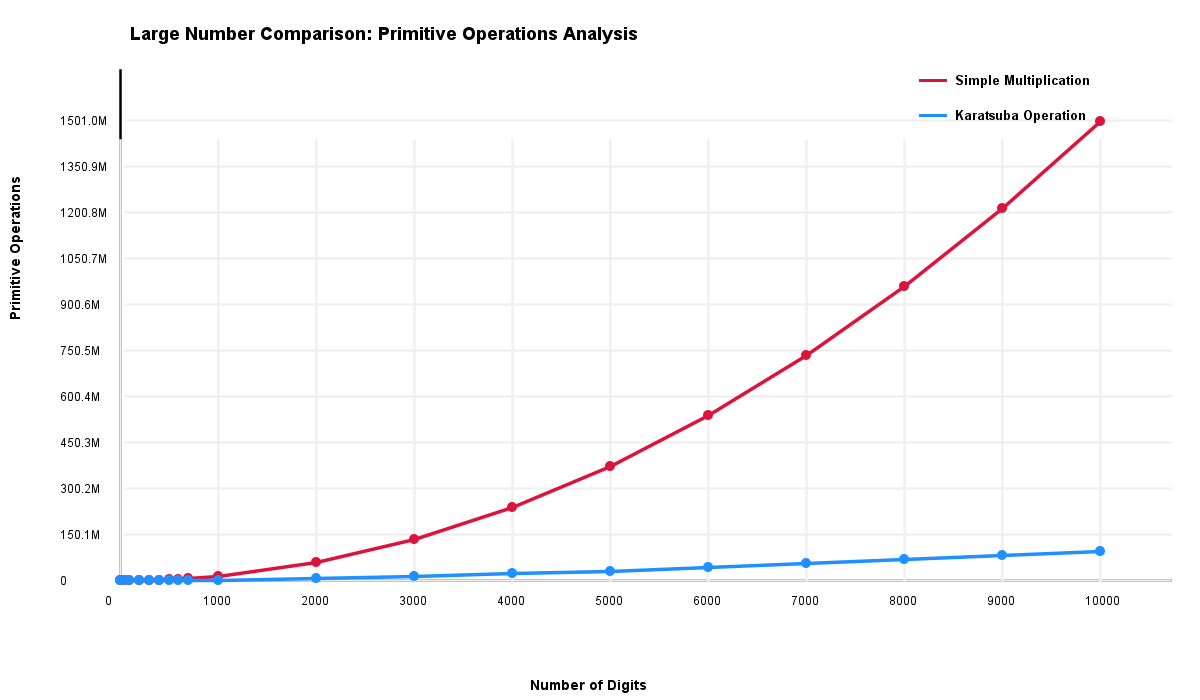
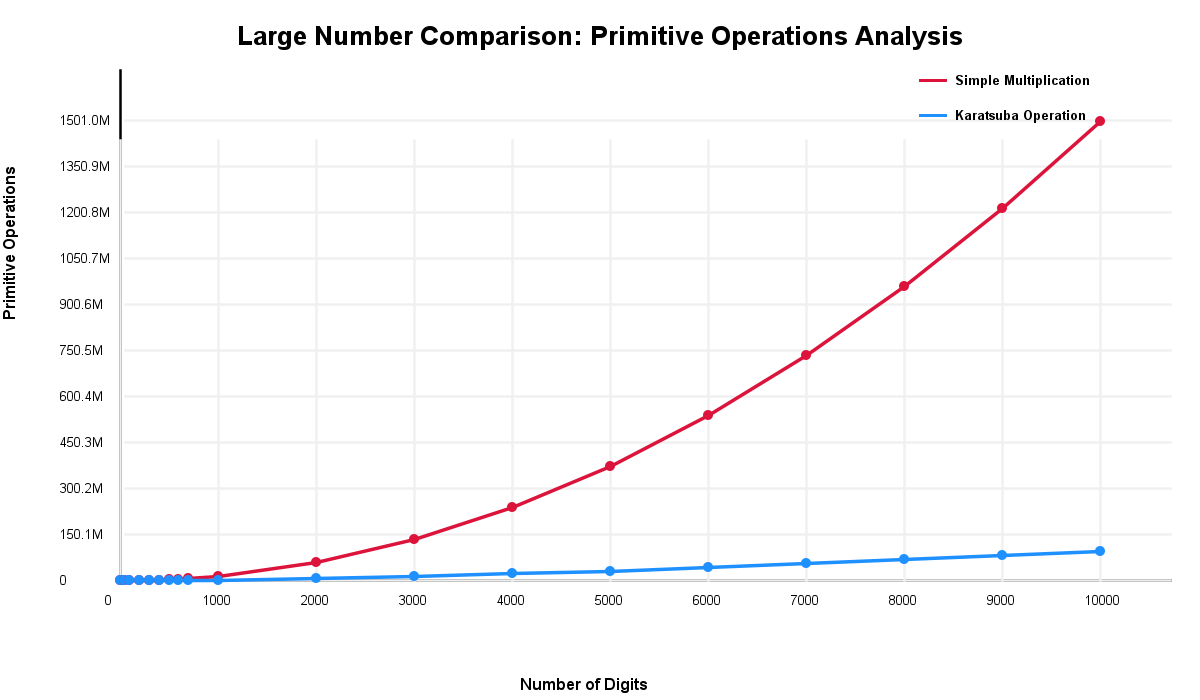
update graph design

diff --git a/src/karatsuba/Karatsuba.java b/src/karatsuba/Karatsuba.java
@@ -143,10 +143,14 @@ public class Karatsuba {
         for (long v : ops) if (v > maxVal) maxVal = v;
         maxVal = (maxVal / 1000000 + 1) * 1000000;
 
-        // Title
+        // Title - centered
         g.setColor(Color.BLACK);
-        g.setFont(new Font("Arial", Font.BOLD, 18));
-        g.drawString("Karatsuba Algorithm Analysis (2 to 10000 digits)", 200, 40);
+        g.setFont(new Font("Arial", Font.BOLD, 26));
+        String title = "Karatsuba Algorithm Analysis";
+        FontMetrics fm = g.getFontMetrics();
+        int titleWidth = fm.stringWidth(title);
+        int titleX = (WIDTH - titleWidth) / 2;
+        g.drawString(title, titleX, 45);
 
         // Draw axes
         g.setStroke(new BasicStroke(2.5f));
@@ -155,7 +159,7 @@ public class Karatsuba {
         g.drawLine(PADDING, HEIGHT - PADDING, PADDING, 70);
 
         // Draw grid and Y-axis labels
-        g.setFont(new Font("Arial", Font.PLAIN, 12));
+        g.setFont(new Font("Arial", Font.PLAIN, 13));
         int divisions = 10;
         for (int i = 0; i <= divisions; i++) {
             int y = (HEIGHT - PADDING) - (i * (HEIGHT - 2 * PADDING) / divisions);
@@ -179,12 +183,12 @@ public class Karatsuba {
         aff.rotate(-Math.PI / 2);
         Graphics2D g2d = (Graphics2D) g;
         g2d.setTransform(aff);
-        g.setFont(new Font("Arial", Font.BOLD, 14));
-        g.drawString("Primitive Operations", -HEIGHT / 2 + 30, 20);
+        g.setFont(new Font("Arial", Font.BOLD, 16));
+        g.drawString("Primitive Operations", -HEIGHT / 2 + 30, 15);
         g2d.setTransform(new AffineTransform());
 
         // X-axis labels (0, 1000, 2000... 10000)
-        g.setFont(new Font("Arial", Font.PLAIN, 12));
+        g.setFont(new Font("Arial", Font.PLAIN, 13));
         int maxDigits = 10000;
         for (int scale = 0; scale <= maxDigits; scale += 1000) {
             // Find position of this scale value (linear interpolation)
@@ -204,8 +208,8 @@ public class Karatsuba {
         }
 
         // X-axis label
-        g.setFont(new Font("Arial", Font.BOLD, 14));
-        g.drawString("Number of Digits", WIDTH / 2 - 70, HEIGHT - 10);
+        g.setFont(new Font("Arial", Font.BOLD, 16));
+        g.drawString("Number of Digits", WIDTH / 2 - 80, HEIGHT - 10);
 
         // Draw line
         g.setStroke(new BasicStroke(3.5f));
@@ -225,6 +229,19 @@ public class Karatsuba {
             g.setColor(new Color(30, 144, 255));
             g.fillOval(x - 5, y - 5, 10, 10);
         }
+
+        // Legend with colored line
+        g.setFont(new Font("Arial", Font.BOLD, 13));
+        int legendX = WIDTH - 280;
+        int legendY = 80;
+        int lineLength = 25;
+
+        // Blue line for Karatsuba
+        g.setStroke(new BasicStroke(3));
+        g.setColor(new Color(30, 144, 255));
+        g.drawLine(legendX, legendY, legendX + lineLength, legendY);
+        g.setColor(Color.BLACK);
+        g.drawString("Karatsuba Operation", legendX + 35, legendY + 5);
 
         g.dispose();
         ImageIO.write(img, "png", new File(filename));

diff --git a/src/simple/SimpleMultiplication.java b/src/simple/SimpleMultiplication.java
@@ -141,10 +141,14 @@ public class SimpleMultiplication {
         for (long v : ops) if (v > maxVal) maxVal = v;
         maxVal = (maxVal / 1000000 + 1) * 1000000;
 
-        // Title
+        // Title - centered
         g.setColor(Color.BLACK);
-        g.setFont(new Font("Arial", Font.BOLD, 18));
-        g.drawString("Simple Multiplication Algorithm Analysis (2 to 10000 digits)", 140, 40);
+        g.setFont(new Font("Arial", Font.BOLD, 26));
+        String title = "Simple Multiplication Algorithm Analysis";
+        FontMetrics fm = g.getFontMetrics();
+        int titleWidth = fm.stringWidth(title);
+        int titleX = (WIDTH - titleWidth) / 2;
+        g.drawString(title, titleX, 45);
 
         // Draw axes
         g.setStroke(new BasicStroke(2.5f));
@@ -153,7 +157,7 @@ public class SimpleMultiplication {
         g.drawLine(PADDING, HEIGHT - PADDING, PADDING, 70);
 
         // Draw grid and Y-axis labels
-        g.setFont(new Font("Arial", Font.PLAIN, 12));
+        g.setFont(new Font("Arial", Font.PLAIN, 13));
         int divisions = 10;
         for (int i = 0; i <= divisions; i++) {
             int y = (HEIGHT - PADDING) - (i * (HEIGHT - 2 * PADDING) / divisions);
@@ -177,12 +181,12 @@ public class SimpleMultiplication {
         aff.rotate(-Math.PI / 2);
         Graphics2D g2d = (Graphics2D) g;
         g2d.setTransform(aff);
-        g.setFont(new Font("Arial", Font.BOLD, 14));
-        g.drawString("Primitive Operations", -HEIGHT / 2 + 30, 20);
+        g.setFont(new Font("Arial", Font.BOLD, 16));
+        g.drawString("Primitive Operations", -HEIGHT / 2 + 30, 15);
         g2d.setTransform(new AffineTransform());
 
         // X-axis labels (0, 1000, 2000... 10000) - fixed scale from 0 to 10000
-        g.setFont(new Font("Arial", Font.PLAIN, 12));
+        g.setFont(new Font("Arial", Font.PLAIN, 13));
         for (int scale = 0; scale <= 10000; scale += 1000) {
             // Map scale value (0-10000) to pixel position
             double position = scale / 10000.0;
@@ -198,8 +202,8 @@ public class SimpleMultiplication {
         }
 
         // X-axis label
-        g.setFont(new Font("Arial", Font.BOLD, 14));
-        g.drawString("Number of Digits", WIDTH / 2 - 70, HEIGHT - 10);
+        g.setFont(new Font("Arial", Font.BOLD, 16));
+        g.drawString("Number of Digits", WIDTH / 2 - 80, HEIGHT - 10);
 
         // Draw line
         g.setStroke(new BasicStroke(3.5f));
@@ -222,6 +226,19 @@ public class SimpleMultiplication {
             g.setColor(new Color(220, 20, 60));
             g.fillOval(x - 5, y - 5, 10, 10);
         }
+
+        // Legend with colored line
+        g.setFont(new Font("Arial", Font.BOLD, 13));
+        int legendX = WIDTH - 280;
+        int legendY = 80;
+        int lineLength = 25;
+
+        // Red line for Simple Multiplication
+        g.setStroke(new BasicStroke(3));
+        g.setColor(new Color(220, 20, 60));
+        g.drawLine(legendX, legendY, legendX + lineLength, legendY);
+        g.setColor(Color.BLACK);
+        g.drawString("Simple Multiplication", legendX + 35, legendY + 5);
 
         g.dispose();
         ImageIO.write(img, "png", new File(filename));

diff --git a/src/comparison/LargeNumberComparison.java b/src/comparison/LargeNumberComparison.java
@@ -96,10 +96,14 @@ public class LargeNumberComparison {
         for (long v : karatsuba) if (v > maxVal) maxVal = v;
         maxVal = (maxVal / 1000000 + 1) * 1000000;
 
-        // Title
+        // Title - centered
         g.setColor(Color.BLACK);
-        g.setFont(new Font("Arial", Font.BOLD, 18));
-        g.drawString("Large Number Comparison: Primitive Operations Analysis", 130, 40);
+        g.setFont(new Font("Arial", Font.BOLD, 26));
+        String title = "Large Number Comparison: Primitive Operations Analysis";
+        FontMetrics fm = g.getFontMetrics();
+        int titleWidth = fm.stringWidth(title);
+        int titleX = (WIDTH - titleWidth) / 2;
+        g.drawString(title, titleX, 45);
 
         // Draw axes
         g.setStroke(new BasicStroke(2.5f));
@@ -108,7 +112,7 @@ public class LargeNumberComparison {
         g.drawLine(PADDING, HEIGHT - PADDING, PADDING, 70); // Y-axis
 
         // Draw grid and Y-axis labels with proper scale
-        g.setFont(new Font("Arial", Font.PLAIN, 12));
+        g.setFont(new Font("Arial", Font.PLAIN, 13));
         int divisions = 10;
         for (int i = 0; i <= divisions; i++) {
             int y = (HEIGHT - PADDING) - (i * (HEIGHT - 2 * PADDING) / divisions);
@@ -136,12 +140,12 @@ public class LargeNumberComparison {
         aff.rotate(-Math.PI / 2);
         Graphics2D g2d = (Graphics2D) g;
         g2d.setTransform(aff);
-        g.setFont(new Font("Arial", Font.BOLD, 14));
-        g.drawString("Primitive Operations", -HEIGHT / 2 + 30, 20);
+        g.setFont(new Font("Arial", Font.BOLD, 16));
+        g.drawString("Primitive Operations", -HEIGHT / 2 + 30, 15);
         g2d.setTransform(new AffineTransform());
 
         // X-axis labels (0, 1000, 2000... 10000) - fixed scale from 0 to 10000
-        g.setFont(new Font("Arial", Font.PLAIN, 12));
+        g.setFont(new Font("Arial", Font.PLAIN, 13));
         for (int scale = 0; scale <= 10000; scale += 1000) {
             // Map scale value (0-10000) to pixel position
             double position = scale / 10000.0;
@@ -157,8 +161,8 @@ public class LargeNumberComparison {
         }
 
         // X-axis label (bottom)
-        g.setFont(new Font("Arial", Font.BOLD, 14));
-        g.drawString("Number of Digits", WIDTH / 2 - 70, HEIGHT - 10);
+        g.setFont(new Font("Arial", Font.BOLD, 16));
+        g.drawString("Number of Digits", WIDTH / 2 - 80, HEIGHT - 10);
 
         // Draw Simple Multiplication line (RED)
         g.setStroke(new BasicStroke(3.5f));
@@ -175,6 +179,7 @@ public class LargeNumberComparison {
 
         // Draw Karatsuba line (BLUE)
         g.setColor(new Color(30, 144, 255)); // Blue
+        g.setStroke(new BasicStroke(3.5f));
         for (int i = 0; i < n.length - 1; i++) {
             double pos1 = n[i] / 10000.0;
             double pos2 = n[i + 1] / 10000.0;